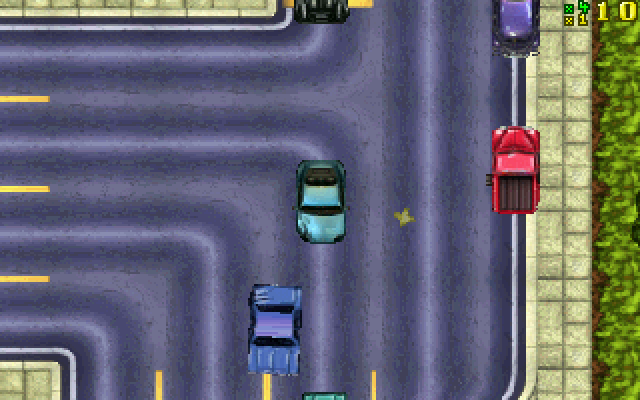
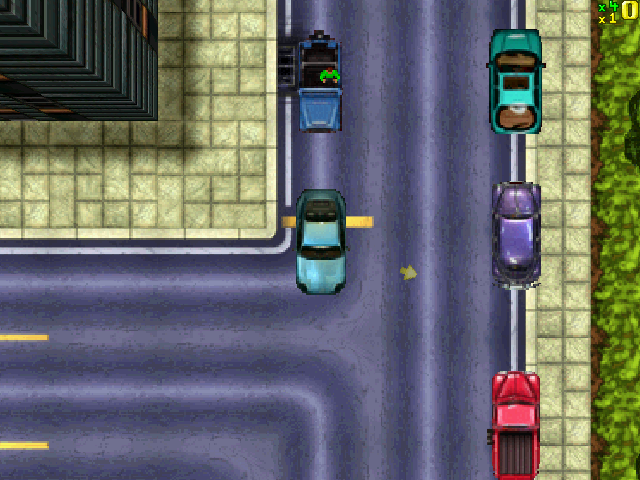
Play at 640x480, and play the music
640x480: the in-game mode is entry 0 of the game's mode table unless the
player picks another in Options, and the table is built from what
EnumDisplayModes reports. The shim reported 320x200 first; it now lists
what a real driver does, 640x480 and up.

Music: the game probes its ten radio tracks with AIL_stream_info and
switches music off if any length is below 1. The shim answered 0; it now
answers the WAV's byte rate, format and length. The mixer's 16.16 voice
position is 64-bit (it wrapped every three seconds of a track), and
AIL_set_stream_position seeks. Track8.wav was also broken by the
extractor (fixed in pcrecomp branch gta). Verified from the muted mix
dump: Track9 and Track2 at normalised correlation 1.000.

diff --git a/src/sound/miles_shim.c b/src/sound/miles_shim.c
@@ -68,6 +68,8 @@ typedef struct {
     int voice;          /* mixer voice, or -1 */
     void *pcm;          /* decoded WAV, owned */
     u32 pcm_bytes;
+    u32 byte_rate;      /* bytes per second, from the WAV header */
+    u32 dig_format;     /* DIG_F_*: bit 0 16-bit, bit 1 stereo */
 } MSS_Stream;
 
 typedef struct {
@@ -341,6 +343,8 @@ HSTREAM AIL_open_stream(HDIGDRIVER dig, const char *filename, s32 stream_mem) {
                 g_streams[i].pcm = mixer_load_wav(filename, &nbytes, &rate, &bits, &chans);
                 if (g_streams[i].pcm) {
                     g_streams[i].pcm_bytes = nbytes;
+                    g_streams[i].byte_rate = (u32)(rate * (bits / 8) * chans);
+                    g_streams[i].dig_format = (bits == 16 ? 1u : 0u) | (chans == 2 ? 2u : 0u);
                     g_streams[i].voice = mixer_voice_alloc();
                     if (g_streams[i].voice >= 0)
                         mixer_voice_set_pcm(g_streams[i].voice, g_streams[i].pcm,
@@ -425,17 +429,28 @@ void AIL_set_stream_pan(HSTREAM stream, s32 pan) {
     if (str) str->pan = pan;
 }
 
+void AIL_set_stream_position(HSTREAM stream, s32 offset) {
+    MSS_Stream *str = get_stream(stream);
+    if (str && str->voice >= 0 && offset >= 0 && (u32)offset < str->pcm_bytes)
+        mixer_voice_seek(str->voice, (u32)offset);
+}
+
 s32 AIL_stream_position(HSTREAM stream) {
     MSS_Stream *str = get_stream(stream);
     if (!str || str->voice < 0) return 0;
     return (s32)mixer_voice_position(str->voice);
 }
 
+/* Miles: data rate in bytes per second, the DIG_F_ format, the length in
+ * bytes and the buffer memory. GTA1 probes its ten radio tracks with this at
+ * startup and treats a length below 1 as "no such track": answering 0 here
+ * switched the radio off for the whole game. */
 void AIL_stream_info(HSTREAM stream, s32 *datarate, s32 *sndtype, s32 *length, s32 *memory) {
-    if (datarate) *datarate = 22050;
-    if (sndtype) *sndtype = 1; /* PCM */
-    if (length) *length = 0;
-    if (memory) *memory = 0;
+    MSS_Stream *st = get_stream(stream);
+    if (datarate) *datarate = st ? (s32)st->byte_rate : 0;
+    if (sndtype)  *sndtype  = st ? (s32)st->dig_format : 0;
+    if (length)   *length   = st ? (s32)st->pcm_bytes : 0;
+    if (memory)   *memory   = 0;
 }
 
 /* --- Master volume --- */

diff --git a/src/sound/mixer.c b/src/sound/mixer.c
@@ -23,7 +23,8 @@ typedef struct {
     int   is_signed;   /* 8-bit only */
     int   volume, pan;
     int   loop;          /* remaining plays; <= 0 means forever */
-    u32   pos;           /* frame position, 16.16 fixed point */
+    unsigned long long pos;   /* frame position, 16.16 fixed point: 64-bit, or it
+                               * wraps after 65,536 frames (3 s of a radio track) */
     int   playing;
     int   allocated;
 } Voice;
@@ -144,7 +145,7 @@ static void mix_into(short *out, int frames) {
         gain_r = v->volume * v->pan * g_master;
 
         for (i = 0; i < frames; i++) {
-            u32 f = v->pos >> FRAC_BITS;
+            u32 f = (u32)(v->pos >> FRAC_BITS);
             int sl, sr;
 
             if (f >= total_frames) {
@@ -415,9 +416,18 @@ u32 mixer_voice_position(int v) {
     u32 r = 0;
     LOCK();
     if ((x = get(v)))
-        r = (x->pos >> FRAC_BITS) * (u32)x->channels * (u32)(x->bits / 8);
+        r = (u32)(x->pos >> FRAC_BITS) * (u32)x->channels * (u32)(x->bits / 8);
     UNLOCK();
     return r;
+}
+
+/* Move a voice to a byte offset in its PCM (AIL_set_stream_position). */
+void mixer_voice_seek(int v, u32 byte_pos) {
+    Voice *x;
+    LOCK();
+    if ((x = get(v)) && x->channels && x->bits)
+        x->pos = (unsigned long long)(byte_pos / ((u32)x->channels * (u32)(x->bits / 8))) << FRAC_BITS;
+    UNLOCK();
 }
 
 void mixer_set_master_volume(int vol) {

diff --git a/src/video/ddraw_shim.c b/src/video/ddraw_shim.c
@@ -477,9 +477,10 @@ static void enum_display_modes(u32 ctx, u32 callback) {
      * MGL's driver pick.
      */
     static const struct { u32 w, h, bpp; } modes[] = {
-        { 320, 200,  8 }, { 320, 200, 16 },
-        { 320, 240,  8 }, { 320, 240, 16 },
-        { 640, 400,  8 }, { 640, 400, 16 },
+        /* What a real display driver lists. The 320-wide modes used to be
+         * here too, and the in-game mode is entry 0 of the game's mode table
+         * unless the player picks another in Options -- so it played at
+         * 320x200, a mode no modern driver offers. */
         { 640, 480,  8 }, { 640, 480, 16 },
         { 800, 600,  8 }, { 800, 600, 16 },
         { 1024, 768, 8 }, { 1024, 768, 16 },

diff --git a/src/engine/iat_bridge.c b/src/engine/iat_bridge.c
@@ -1019,7 +1019,8 @@ static void bridge_AIL_start_timer(void) {
 }
 static void bridge_AIL_stop_timer(void) { if (gt_ok(ARG(1))) g_gt[ARG(1)].running = 0; esp += 4+4; }
 static void bridge_AIL_set_preference(void) { esp += 4+8; }
-static void bridge_AIL_set_stream_position(void) { esp += 4+8; }
+static void bridge_AIL_set_stream_position(void) { AIL_set_stream_position((HSTREAM)(uintptr_t)ARG(1),(s32)ARG(2)); esp += 4+8; }
+/* Nothing to service: the whole track is decoded at open and the mixer plays it. */
 static void bridge_AIL_service_stream(void) { esp += 4+8; }
 
 /* ===== Smacker bridges ===== */

diff --git a/src/sound/miles_shim.h b/src/sound/miles_shim.h
@@ -69,6 +69,7 @@ s32     AIL_stream_status(HSTREAM stream);
 void    AIL_set_stream_loop_count(HSTREAM stream, s32 count);
 void    AIL_set_stream_volume(HSTREAM stream, s32 volume);
 void    AIL_set_stream_pan(HSTREAM stream, s32 pan);
+void    AIL_set_stream_position(HSTREAM stream, s32 offset);
 s32     AIL_stream_position(HSTREAM stream);
 void    AIL_stream_info(HSTREAM stream, s32 *datarate, s32 *sndtype, s32 *length, s32 *memory);
 

diff --git a/src/sound/mixer.h b/src/sound/mixer.h
@@ -44,6 +44,7 @@ void mixer_voice_set_loop(int v, int count);     /* 0 or negative = forever */
 void mixer_voice_start(int v);
 void mixer_voice_stop(int v);
 int  mixer_voice_playing(int v);
+void mixer_voice_seek(int v, u32 byte_pos);          /* AIL_set_stream_position */
 u32  mixer_voice_position(int v);                /* bytes consumed from pcm */
 
 void mixer_set_master_volume(int vol);           /* 0..127 */

diff --git a/README.md b/README.md
@@ -39,7 +39,7 @@ Keep game files in `original/` or `game/`: both are gitignored.
 The freeware build is an InstallShield installer. Extract its cabinets:
 
 ```bash
-python ../tools/tools/assets/isextract.py game/data1.cab game/data1.cab -o game/extracted_full
+python ../pcrecomp-gta/tools/assets/isextract.py game/data1.cab game/data1.cab -o game/extracted_full
 ```
 
 The archive spans `data1.cab` and `data2.cab`; all 195 files should extract.
@@ -101,9 +101,9 @@ an hour to lift), the relift on today's pcrecomp finds 4,211 more entry points
 and drops 176 that were never real -- every one of them a start in the middle
 of another instruction. It takes 12 minutes.
 
-Not yet: music (the game streams it, the mixer has not been told to start it),
-the game's resolution choice (it plays at 320x200), saved games, and
-multiplayer. Details in [docs/PROGRESS.md](docs/PROGRESS.md).
+It plays at the game's own 640x480, and the music plays: the front-end theme
+and the car radio, from the game's WAV tracks through the port's mixer. Not yet:
+saved games and multiplayer. Details in [docs/PROGRESS.md](docs/PROGRESS.md).
 
 ## Screenshots
 
@@ -146,6 +146,17 @@ when the file on disk is `LEVEL000.RAW`. The lifted `_output` decided sign with
 `test edx,edx / jg / jl`, and the second jump sat in a different basic block from
 the compare, where the lifter had discarded what set the flags. One branch, and
 every zero the CRT ever formatted came out negative.
+
+**The radio was switched off by one probe and one bad file.** At startup GTA1
+opens each of its ten radio tracks and asks Miles for its length; a length
+under 1 means "no such track", and one missing track switches the radio off for
+the whole game. The shim answered 0 for every length. Track8.wav was also broken:
+it spans the two install cabinets, and the extractor read all of it from the
+first. Then the mixer's 32-bit 16.16 position wrapped every three seconds.
+
+**It played at 320x200 because the shim offered 320x200.** The in-game mode is
+entry 0 of a table the game builds from `EnumDisplayModes`, unless the player
+picks another in Options. Real drivers do not list 320-wide modes; the shim did.
 
 **Four bytes, one million times.** `AIL_ms_count` is `@0`, not `@4`; the bridge
 popped one argument too many. The game busy-waits on it, so the stack pointer

diff --git a/docs/BRINGUP.md b/docs/BRINGUP.md
@@ -635,3 +635,38 @@ and offset, which is how ntdll and wdmaud were told apart.)
 After that: the 16-bit front end ("Mission Pack #1: London 1969"), then
 `uk.cmp` and `uk\style001.g24`, the in-game mode, and the player in a car in
 West City, steered by scripted keys.
+
+## 640x480
+
+The game played at 320x200. `sub_00414DB0` sets the display mode: the front end
+asks for -2 (MGL mode 0x13, 640x480) and the game for the entry
+`[0x503224]` of its mode table (`0x504CD0`, 28-byte records), which the Options
+menu sets and which is 0 otherwise. The table is built from the modes MGL found,
+which are the modes `EnumDisplayModes` reported -- and the shim reported
+320x200 and 320x240 first. The game even records where 640x480 sits
+(`0x504CBC`) and falls back to it when a mode fails. The shim now lists what a
+real display driver lists, 640x480 and up, and entry 0 is 640x480. 800x600 and
+1024x768 are in the table for the Options menu.
+
+## Music
+
+GTA1's music is the radio, ten WAV tracks under `Music\`, streamed through
+Miles. The game never called `AIL_start_stream`, for three reasons:
+
+- `sub_0040C300` opens every track at startup and asks `AIL_stream_info` for its
+  length. Below 1 means missing, and a missing track switches music off
+  (`0x501AAC = 0`). The shim answered 0. It now answers the WAV's byte rate,
+  format and length.
+- Track8.wav, the file that spans `data1.cab` and `data2.cab`, had been
+  extracted from data1 alone: right length, no RIFF header, Track9's header
+  inside it. Real Miles fails to open that too, and the probe would switch music
+  off just the same. Fixed in pcrecomp's `isextract.py` (branch `gta`): a split
+  file is joined from the tail of one volume and the head of the next. Re-extract
+  if you extracted before.
+- The mixer kept a voice's position as a 32-bit 16.16 number, which wraps after
+  65,536 frames: three seconds of a radio track. It is 64-bit now, and
+  `AIL_set_stream_position` (the radio tuning in mid-song) seeks.
+
+Verified headless, muted, from `GTA_AUDIO_DUMP`: one-second slices of the mix
+match Track9 (front end) and Track2 (from 157.8 s, the car radio) at
+normalised cross-correlation 1.000.

diff --git a/docs/PROGRESS.md b/docs/PROGRESS.md
@@ -100,17 +100,11 @@ in the middle of another instruction (0x401921 is inside the `mov` at
 - [x] Quit prompt, results screen, back to the menu, clean exit
 - [ ] Joystick
 - [x] Sound effects play (verified by mixer peak level)
-- [ ] Music plays (blocked: the game never calls `AIL_start_stream`)
+- [x] Music plays: front-end theme and car radio (verified against the track files, correlation 1.000)
 - [ ] Audio verified against the original
 - [ ] Save games
 
 ## Known gaps
-
-**Music.** `AIL_open_stream` loads `track1.wav` and the game never calls
-`AIL_start_stream` on it; not yet traced.
-
-**Resolution.** The game plays at 320x200 (MGL mode index 3). Where it takes
-that choice from is not yet traced; GTA_FORCE_MODE only covers the front end.
 
 **DirectDraw surfaces are never freed.** The shim's surface table and its
 scratch memory are bump-allocated: fine for one game and back to the menu, not
